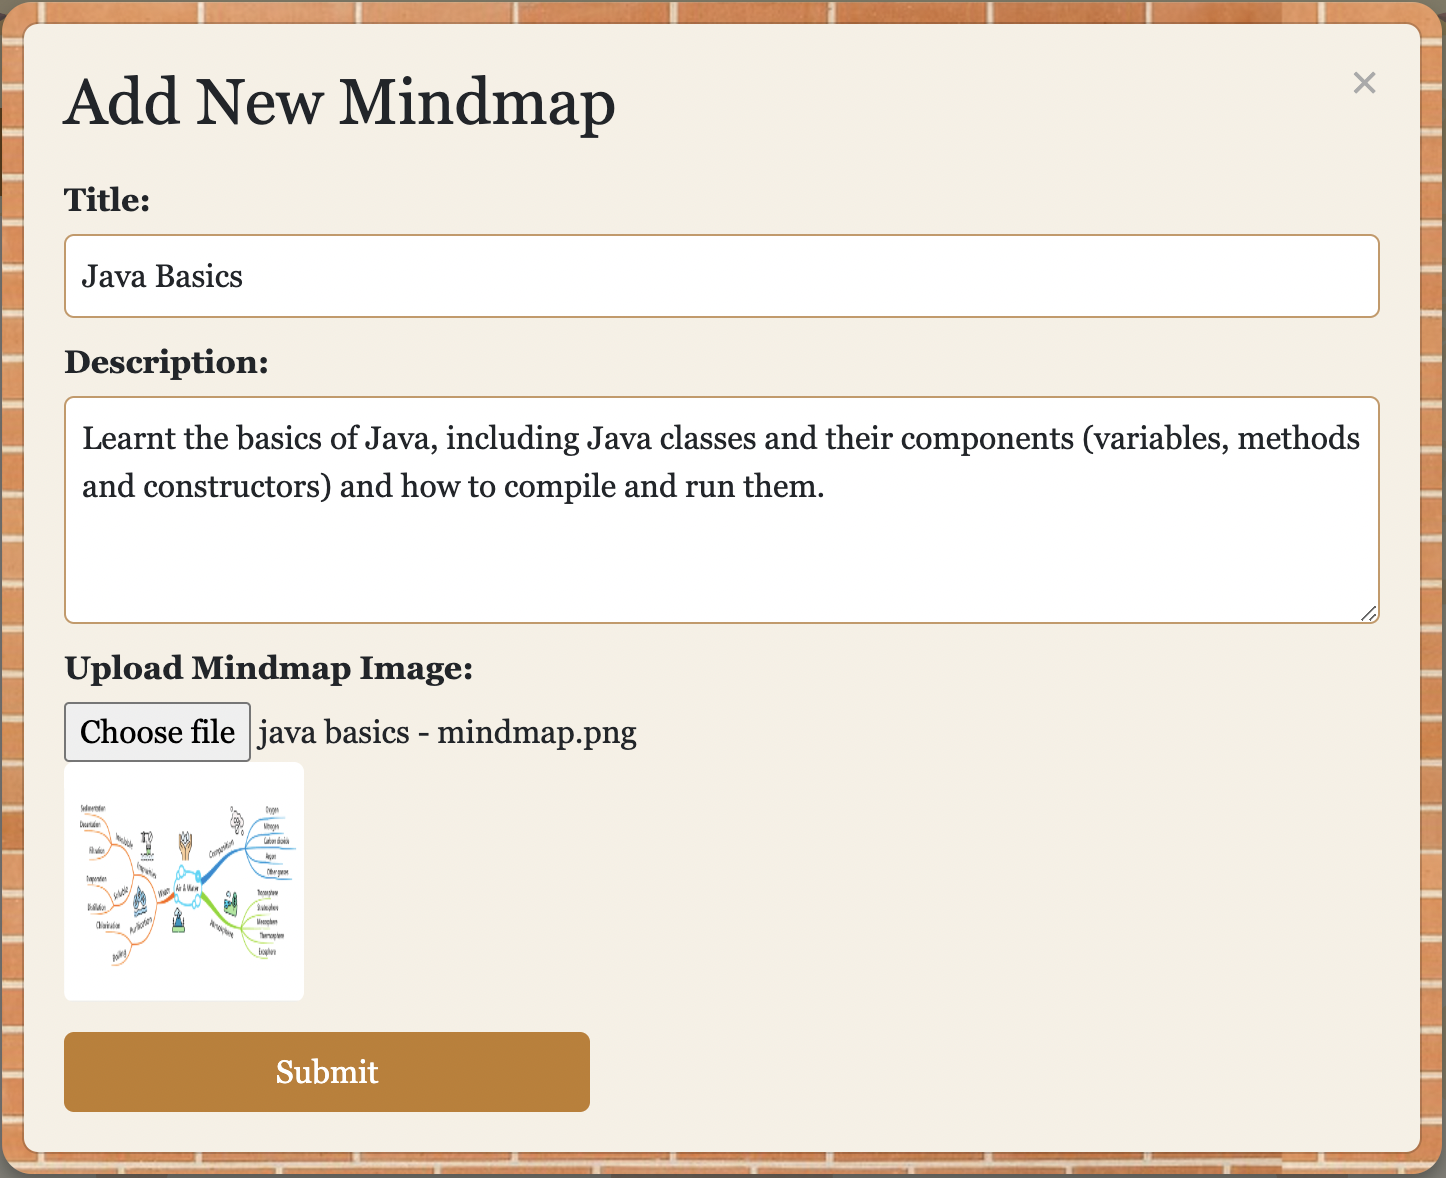
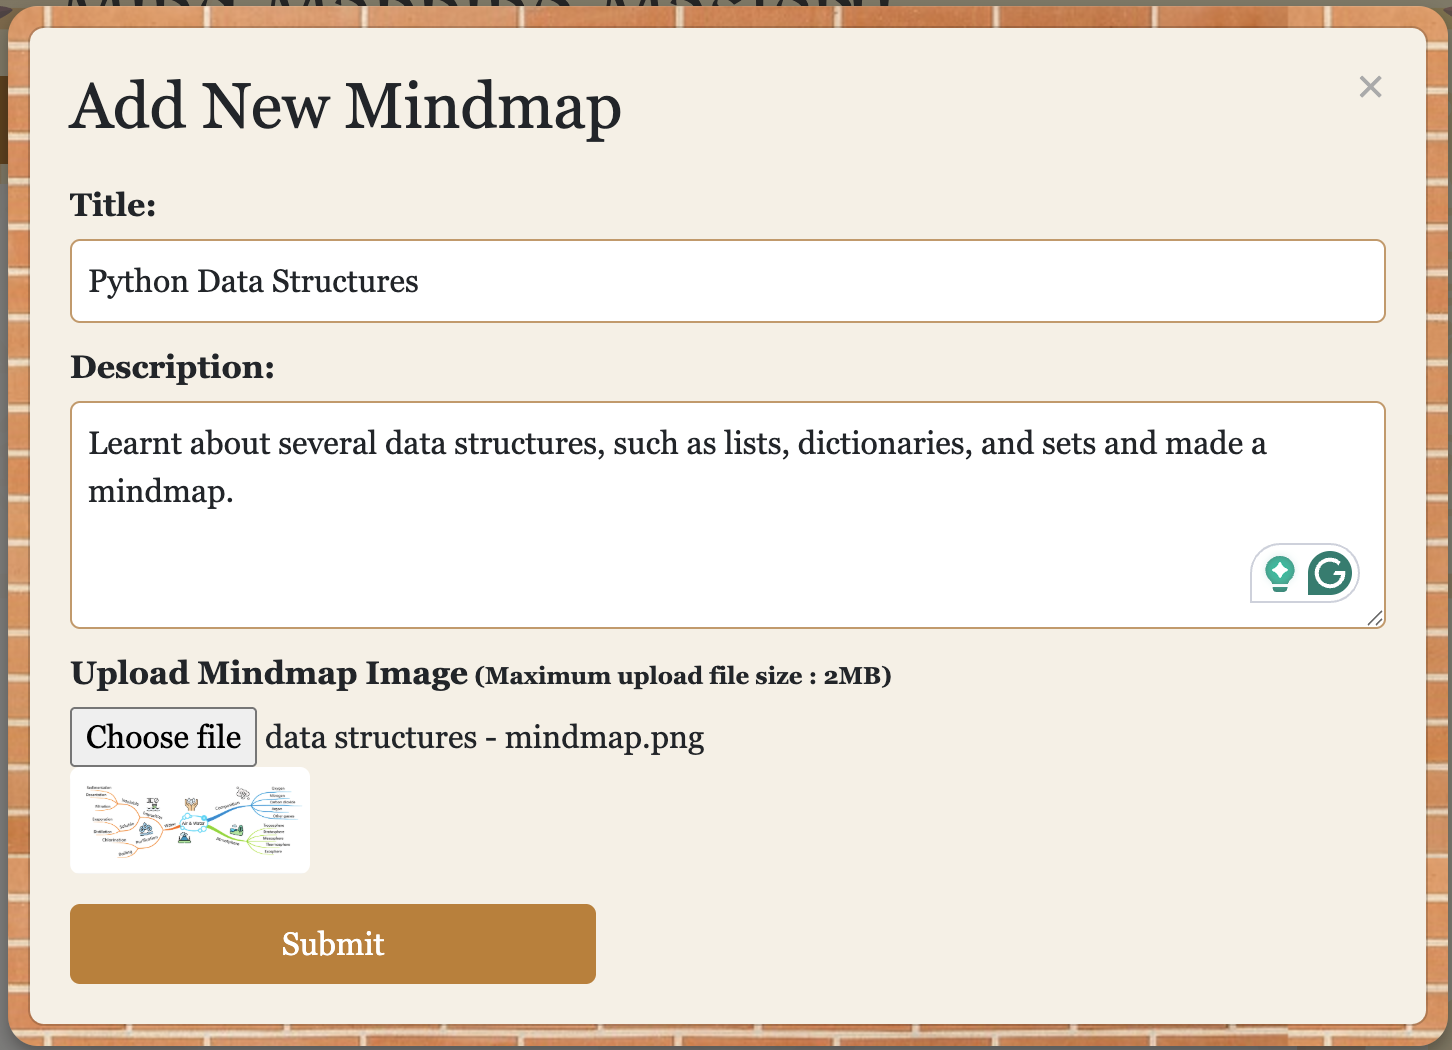
Changes for mexico exp

Changed region(s): [[0.0, 0.0, 1.0, 1.0]]

diff --git a/src/app/global_comman/profile/profile.component.html b/src/app/global_comman/profile/profile.component.html
@@ -304,7 +304,7 @@
 
           <!-- Game 1: Eye of Horus -->
     <div class="game-section">
-      <h3 class="game-title">Eye of Horus</h3>
+      <h3 class="game-title">Tutorial and Lab Mastery</h3>
       <div class="badges-container" >
         <div class="badge" [ngClass]="{ 
           'achieved-badge': hasEarnedBadge(gameMargins?.game1margin1, gameMargins?.game1marks), 
@@ -353,7 +353,7 @@
 
     <!-- Game 2: Ankh’s Chronicle -->
     <div class="game-section">
-      <h3 class="game-title">Ankh’s Chronicle</h3>
+      <h3 class="game-title">Mindmapping Matsery</h3>
       <div class="badges-container">
         <div class="badge" [ngClass]="{ 
           'achieved-badge': hasEarnedBadge(gameMargins?.game2margin1, gameMargins?.game2marks), 
@@ -423,7 +423,7 @@
 
     <!-- Game 3: Sphinx’s Riddle -->
     <div class="game-section">
-      <h3 class="game-title">Pharaoh`s Trial</h3>
+      <h3 class="game-title">Question Mastery</h3>
       <div class="badges-container">
         <div class="badge" [ngClass]="{ 
           'achieved-badge': hasEarnedBadge(gameMargins?.game3margin1, gameMargins?.game3marks), 
@@ -494,7 +494,7 @@
 
     <!-- Game 4-->
     <div class="game-section">
-      <h3 class="game-title">Whispers of the Sphinx</h3>
+      <h3 class="game-title">Breathing Mastery</h3>
       <div class="badges-container">
         <div class="badge" [ngClass]="{ 
           'achieved-badge': hasEarnedBadge(gameMargins?.game4margin1, gameMargins?.game4marks), 
@@ -546,7 +546,7 @@
 
     <!-- Game 5-->
     <div class="game-section">
-      <h3 class="game-title">Calm of the Scarab</h3>
+      <h3 class="game-title">Journalling Mastery</h3>
       <div class="badges-container">
         <div class="badge" [ngClass]="{ 
           'achieved-badge': hasEarnedBadge(gameMargins?.game5margin1, gameMargins?.game5marks), 

diff --git a/src/app/module2_emotional/game1-breathing/learn-breathing/learn-breathing.component.html b/src/app/module2_emotional/game1-breathing/learn-breathing/learn-breathing.component.html
@@ -182,17 +182,17 @@
         <p>If you feel uncomfortable, here’s what you can do:</p>
         <ul>
           <li><b>Take a Break</b>: Step away from the game and give yourself time to reset.</li>
-          <li><b>Talk to Someone</b>: Sharing your feelings with a trusted friend, family member, or confidant can be helpful.</li>
+          <li><b>Talk to Someone</b>: Sharing your feelings with a trusted friend, family member, or confident can be helpful.</li>
           <li><b>Reach Out to Us</b>: You can contact me anytime at <a href= "mailto:hirasha.pooliyadda@pg.canterbury.ac.nz">hirasha.pooliyadda@pg.canterbury.ac.nz</a></li>
         </ul>
         <p>If you decide to stop participating, you can do so at any time. No explanation is needed. Just send me an email at <a href= "mailto:hirasha.pooliyadda@pg.canterbury.ac.nz">hirasha.pooliyadda@pg.canterbury.ac.nz</a>.</p>
-        <h5>Need Additional Support?</h5>
+        <!-- <h5>Need Additional Support?</h5>
         <p>If you feel like you need further assistance, you can also contact the support agency below.</p>
         <p><i><b>Youthline</b></i></p>
         <ul>
           <li>Free 24/7 text 234</li>
           <li>Free 24/7 call 0800 37 66 33</li>
-          <li>Email: <a href= "mailto:talk@youthline.co.nz">talk@youthline.co.nz</a></li></ul>
+          <li>Email: <a href= "mailto:talk@youthline.co.nz">talk@youthline.co.nz</a></li></ul> -->
           </div>
         </div>
         </div>

diff --git a/src/app/module2_emotional/journalling/learn-journalling/learn-journalling.component.html b/src/app/module2_emotional/journalling/learn-journalling/learn-journalling.component.html
@@ -182,17 +182,17 @@
         <p>If you feel uncomfortable, here’s what you can do:</p>
         <ul>
           <li><b>Take a Break</b>: Step away from the game and give yourself time to reset.</li>
-          <li><b>Talk to Someone</b>: Sharing your feelings with a trusted friend, family member, or confidant can be helpful.</li>
+          <li><b>Talk to Someone</b>: Sharing your feelings with a trusted friend, family member, or confident can be helpful.</li>
           <li><b>Reach Out to Us</b>: You can contact me anytime at <a href= "mailto:hirasha.pooliyadda@pg.canterbury.ac.nz">hirasha.pooliyadda@pg.canterbury.ac.nz</a></li>
         </ul>
         <p>If you decide to stop participating, you can do so at any time. No explanation is needed. Just send me an email at <a href= "mailto:hirasha.pooliyadda@pg.canterbury.ac.nz">hirasha.pooliyadda@pg.canterbury.ac.nz</a>.</p>
-        <h5>Need Additional Support?</h5>
+        <!-- <h5>Need Additional Support?</h5>
         <p>If you feel like you need further assistance, you can also contact the support agency below.</p>
         <p><i><b>Youthline</b></i></p>
         <ul>
           <li>Free 24/7 text 234</li>
           <li>Free 24/7 call 0800 37 66 33</li>
-          <li>Email: <a href= "mailto:talk@youthline.co.nz">talk@youthline.co.nz</a></li></ul>
+          <li>Email: <a href= "mailto:talk@youthline.co.nz">talk@youthline.co.nz</a></li></ul> -->
       </div>
     </div>
     </div>

diff --git a/src/app/module2_emotional/journalling/play-journalling/play-journalling.component.html b/src/app/module2_emotional/journalling/play-journalling/play-journalling.component.html
@@ -310,17 +310,17 @@
       <p>If you feel uncomfortable, here’s what you can do:</p>
       <ul>
         <li><b>Take a Break</b>: Step away from the game and give yourself time to reset.</li>
-        <li><b>Talk to Someone</b>: Sharing your feelings with a trusted friend, family member, or confidant can be helpful.</li>
+        <li><b>Talk to Someone</b>: Sharing your feelings with a trusted friend, family member, or confident can be helpful.</li>
         <li><b>Reach Out to Us</b>: You can contact me anytime at <a href= "mailto:hirasha.pooliyadda@pg.canterbury.ac.nz">hirasha.pooliyadda@pg.canterbury.ac.nz</a></li>
       </ul>
       <p>If you decide to stop participating, you can do so at any time. No explanation is needed. Just send me an email at <a href= "mailto:hirasha.pooliyadda@pg.canterbury.ac.nz">hirasha.pooliyadda@pg.canterbury.ac.nz</a>.</p>
-      <h5>Need Additional Support?</h5>
+      <!-- <h5>Need Additional Support?</h5>
       <p>If you feel like you need further assistance, you can also contact the support agency below.</p>
       <p><i><b>Youthline</b></i></p>
       <ul>
         <li>Free 24/7 text 234</li>
         <li>Free 24/7 call 0800 37 66 33</li>
-        <li>Email: <a href= "mailto:talk@youthline.co.nz">talk@youthline.co.nz</a></li></ul>
+        <li>Email: <a href= "mailto:talk@youthline.co.nz">talk@youthline.co.nz</a></li></ul> -->
     </div>
   </div>
   </div>

diff --git a/src/app/global_comman/signup/signup.component.html b/src/app/global_comman/signup/signup.component.html
@@ -37,14 +37,14 @@
                   formControlName="email"
                   class="form-control"
                   [ngClass]="{ 'is-invalid': submitted && f['email'].errors }"
-                  placeholder="abc@uclive.ac.nz"
                 />
+                <!-- placeholder="abc@uclive.ac.nz" should be within input tags. removed this beacuse of the mexico exp-->
                 <div *ngIf="submitted && f['email'].errors" class="invalid-feedback">
                   <div *ngIf="f['email'].errors['required']">Email is required</div>
                   <div *ngIf="f['email'].errors['email']">Email is invalid</div>
-                  <div *ngIf="f['email'].errors['invalidUcliveEmail']">
+                  <!-- <div *ngIf="f['email'].errors['invalidUcliveEmail']">
                     Only "@uclive.ac.nz" emails are allowed
-                  </div>
+                  </div> -->
                 </div>
               </div>
 

diff --git a/src/app/global_comman/game-options/game-options.component.ts b/src/app/global_comman/game-options/game-options.component.ts
@@ -10,7 +10,7 @@ export class GameOptionsComponent implements OnInit {
   game: any;
 
   games = [
-    { id: 1, name: 'Tutorial and Labs Quest', playRoute: '/view-tutorials', learnRoute: '/learn-tutorials' },
+    { id: 1, name: 'Tutorial and Labs Mastery', playRoute: '/view-tutorials', learnRoute: '/learn-tutorials' },
     { id: 2, name: 'Mind Mapping Mastery', playRoute: '/play-mindmaps', learnRoute: '/learn-mindmaps' },
     { id: 3, name: 'Question Mastery', playRoute: '/play-questions', learnRoute: '/learn-questions' },
     { id: 4, name: 'Breathing Mastery', playRoute: '/play-breathing', learnRoute: '/learn-breathing' },

diff --git a/src/app/global_comman/signup/signup.component.ts b/src/app/global_comman/signup/signup.component.ts
@@ -71,7 +71,8 @@ export class SignupComponent implements OnInit {
               Validators.maxLength(10),
             ],
           ],
-          email: ['', [Validators.required, Validators.email, ucliveEmailValidator()]],
+          email: ['', [Validators.required]],
+          // email: ['', [Validators.required, Validators.email, ucliveEmailValidator()]],
           gender: ['', Validators.required],
           dob: ['', [Validators.required, this.dateValidator(today)]],
           password: [

diff --git a/src/app/global_comman/home/home.component.ts b/src/app/global_comman/home/home.component.ts
@@ -16,7 +16,7 @@ games = [
     id: 1,
     // name: '<span class="game-title">Eye of Horus</span><span class="game-subtitle">Tutorial Quest</span>',
     name: 'Eye of Horus',
-    subtitle: 'Tutorial and Labs Quest',
+    subtitle: 'Lab Revision Mastery',
     // hieroglyph: '𓂀',
     hieroglyphImage: 'assets/hieroglyph1.png', 
     scrollImage: 'assets/scroll.png',

diff --git a/src/app/module1_exam_prep/game1_tutorials/view-tutorials/view-tutorials.component.html b/src/app/module1_exam_prep/game1_tutorials/view-tutorials/view-tutorials.component.html
@@ -38,7 +38,7 @@
 
   <div class="container">
         
-    <h1 class="game-title">Tutorial and Quiz Mastery</h1>
+    <h1 class="game-title">Tutorial and Labs Mastery</h1>
     <!-- <button class="add-button" (click)="openModal()">✨ Add Tutorial or Lab✨</button> -->
     <button class="add-button" (click)="openModal()">✨ Add Tutorial or Lab✨</button>
 

diff --git a/src/app/admin/games/games.component.ts b/src/app/admin/games/games.component.ts
@@ -10,7 +10,7 @@ export class GamesComponent implements OnInit {
   games: any[] = [
     {
       id: 1,
-      name: 'Eye of Horus : Tutorial and Labs Quest',
+      name: 'Eye of Horus : Tutorial and Labs Mastery',
       active: true,
       badgeImage: 'assets/badges/badge01.png',
       margin: 5,
